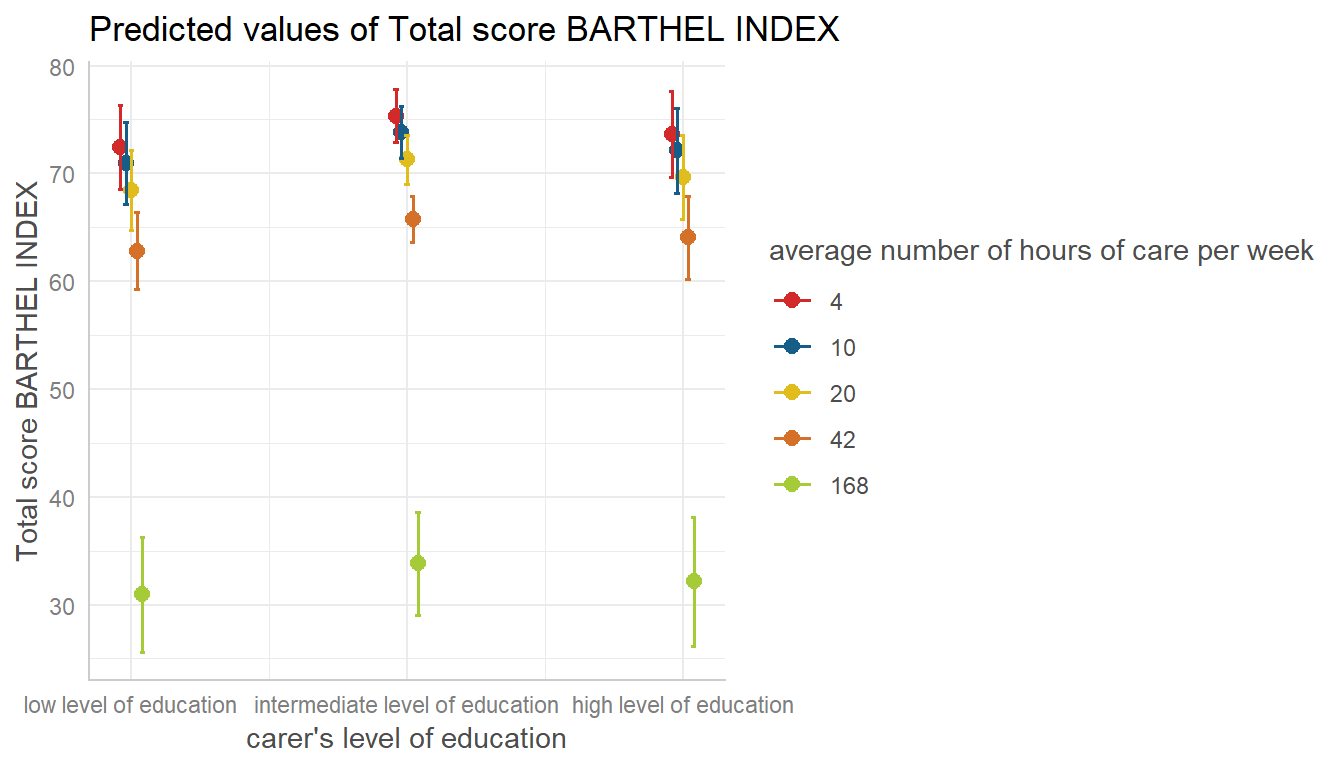
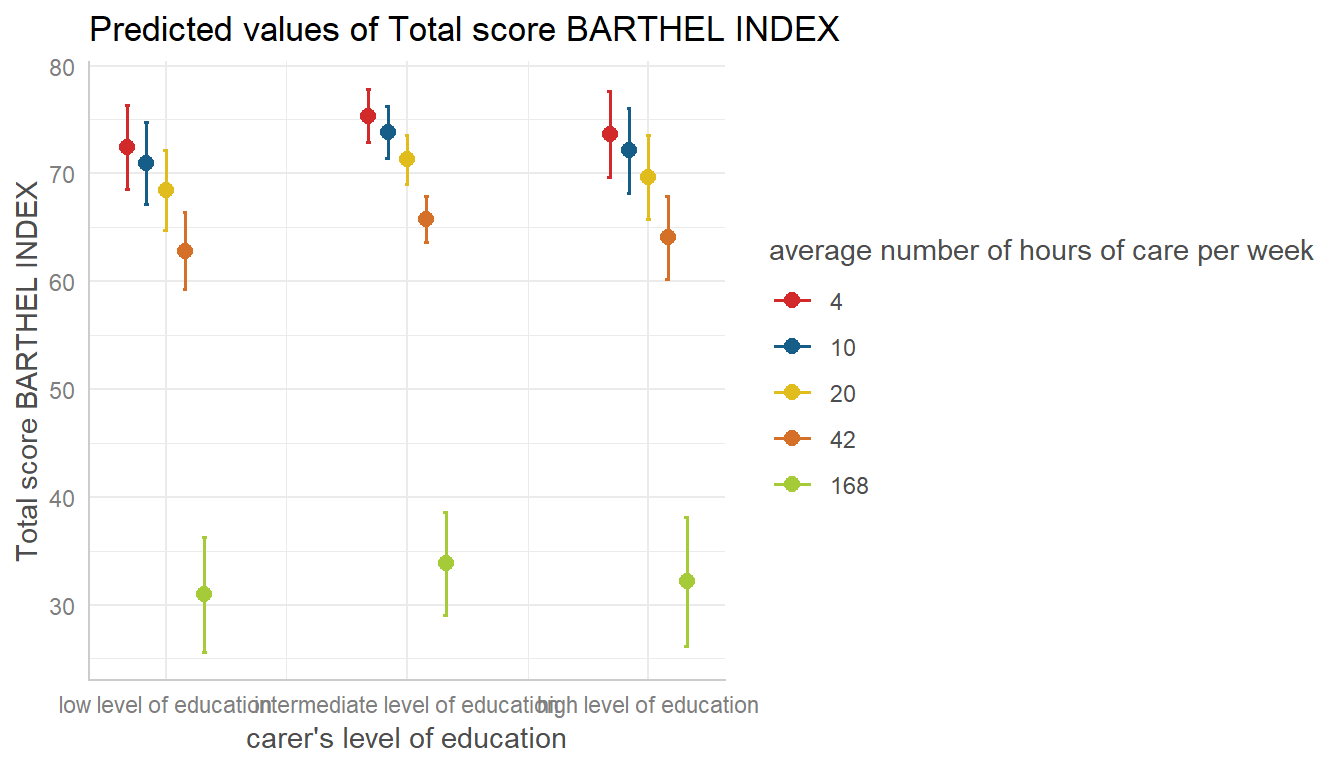
fix check-issues, minor tweak vignettes

diff --git a/docs/articles/plotmethod.html b/docs/articles/plotmethod.html
@@ -224,7 +224,7 @@ dat &lt;-<span class="st"> </span><span class="kw"><a href="../reference/ggpredi
 <span class="kw"><a href="../reference/plot.html">plot</a></span>(dat, <span class="dt">facet =</span> <span class="ot">TRUE</span>, <span class="dt">colors =</span> <span class="st">"circus"</span>)</code></pre></div>
 <p><img src="plotmethod_files/figure-html/unnamed-chunk-10-1.png" width="672"></p>
 <div class="sourceCode"><pre class="sourceCode r"><code class="sourceCode r">dat &lt;-<span class="st"> </span><span class="kw"><a href="../reference/ggpredict.html">ggpredict</a></span>(fit, <span class="dt">terms =</span> <span class="kw"><a href="https://www.rdocumentation.org/packages/base/topics/c">c</a></span>(<span class="st">"c172code"</span>, <span class="st">"c12hour [quart]"</span>))
-<span class="kw"><a href="../reference/plot.html">plot</a></span>(dat, <span class="dt">colors =</span> <span class="st">"hero"</span>)</code></pre></div>
+<span class="kw"><a href="../reference/plot.html">plot</a></span>(dat, <span class="dt">colors =</span> <span class="st">"hero"</span>, <span class="dt">dodge =</span> <span class="fl">0.4</span>) <span class="co"># increase space between error bars</span></code></pre></div>
 <p><img src="plotmethod_files/figure-html/unnamed-chunk-11-1.png" width="672"></p>
 </div>
   </div>

diff --git a/docs/articles/differencepredictemmeans.html b/docs/articles/differencepredictemmeans.html
@@ -221,7 +221,7 @@ fit &lt;-<span class="st"> </span><span class="kw"><a href="https://www.rdocumen
 <span class="co">#&gt; </span>
 <span class="co">#&gt; Adjusted for:</span>
 <span class="co">#&gt; * neg_c_7 = 11.83</span></code></pre></div>
-<p>Creating plots is as simple as described in the vignette <a href="plotmethod.html">Plotting Marginal Effects</a>).</p>
+<p>Creating plots is as simple as described in the vignette <a href="plotmethod.html">Plotting Marginal Effects</a>.</p>
 <div class="sourceCode"><pre class="sourceCode r"><code class="sourceCode r"><span class="kw"><a href="../reference/ggpredict.html">ggemmeans</a></span>(fit, <span class="dt">terms =</span> <span class="kw"><a href="https://www.rdocumentation.org/packages/base/topics/c">c</a></span>(<span class="st">"c12hour"</span>, <span class="st">"e42dep"</span>)) <span class="op">%&gt;%</span><span class="st"> </span><span class="kw"><a href="../reference/plot.html">plot</a></span>()</code></pre></div>
 <p><img src="differencepredictemmeans_files/figure-html/unnamed-chunk-4-1.png" width="672"></p>
   </div>
